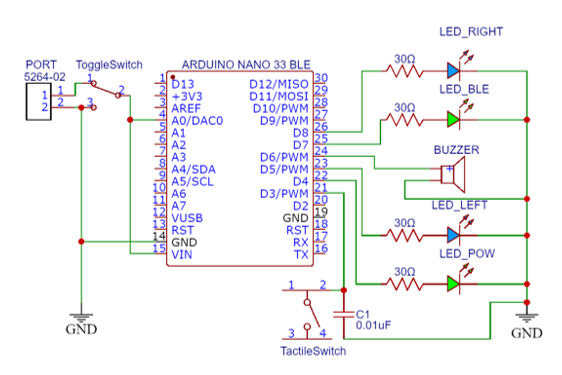
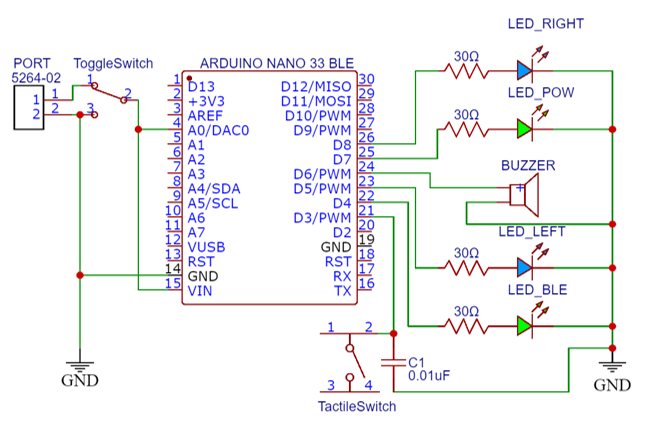
docs: Update device image and introduce

Changed region(s): [[0.0, 0.0293, 0.9982, 0.968]]

diff --git a/circuit/README.md b/circuit/README.md
@@ -39,3 +39,25 @@
 
 ![alt text](./docs_images/3D_ALL.png)
 * 모든 부품을 포함한 3D 모델 분해도
+
+## 기기 형상
+
+### 8/26
+![alt text](./docs_images/uppercase_broke.jpg)
+* `상단 케이스`의 볼트 체결부가 부러지는 문제 발생
+* 부저의 소리가 작아서 운동 왕복시 소리가 잘 들리지 않음
+
+부저 교체 및 상판 두께를 2mm 증가
+<br>
+
+### 조립 완성품
+ ![alt text](./docs_images/device_top.jpg)
+기기 상단
+- `리셋 스위치` 구멍, 기기 전원과 BLE 연결 확인용 인디케이터, 시작 스위치
+ ![alt text](./docs_images/device_front.jpg)
+기기 정면
+- `Arduino NANO`의 포트 구멍, 배터리 연결부, 기기 전원 `토글 스위치`, 기울임 감지 LED
+
+ ![alt text](./docs_images/device_bottom.jpg)
+기기 하단
+- 운동기기에서 미끄러지지 않도록 육각형 패턴의 미끄럼 방지 패드 부착